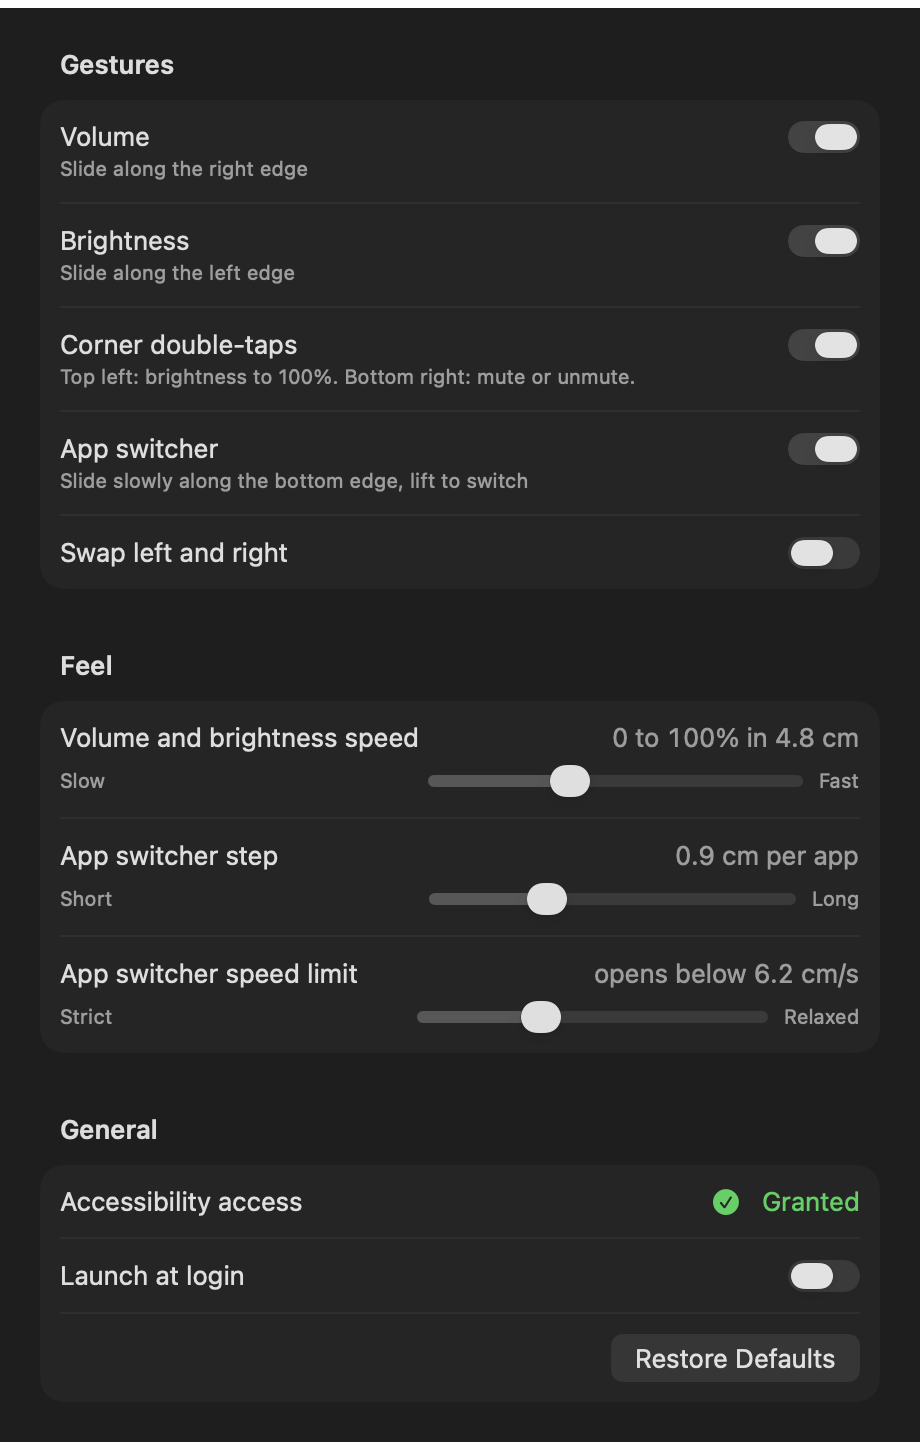
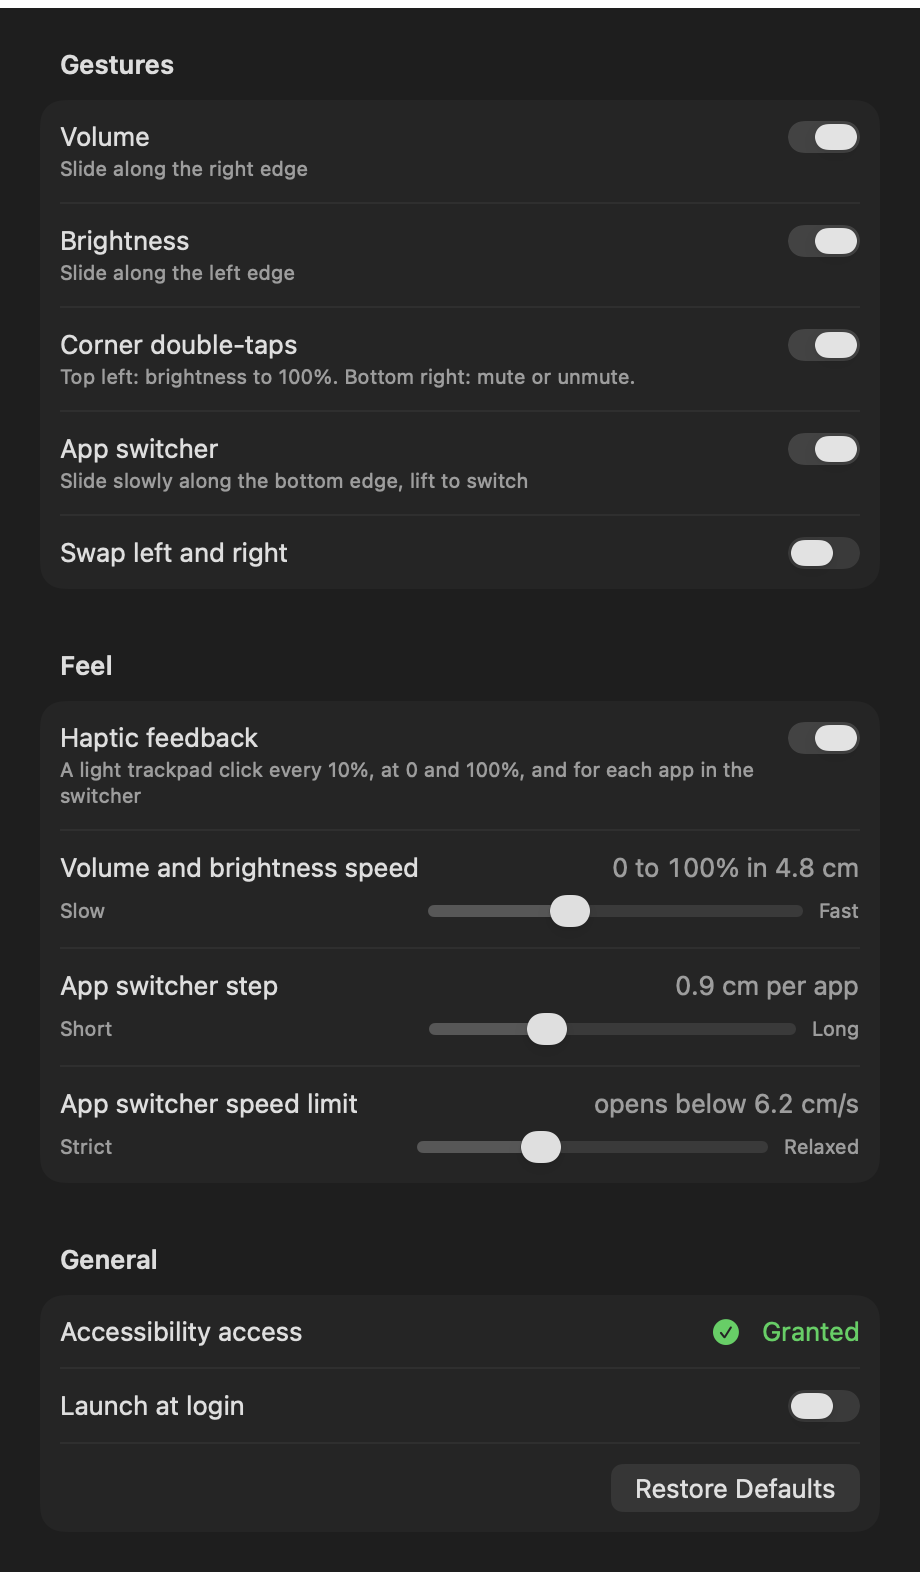
Add haptic clicks to sliders and the app switcher
- the trackpad clicks every 10% of volume or brightness, a firmer click at 0 and 100%
- one click when the app switcher opens and for each app it moves through
- Haptic feedback toggle in Settings, on by default
- the click rule lives in NordvaMacEdgeCore with tests; version 0.5.0

diff --git a/Sources/NordvaMacEdge/LevelController.swift b/Sources/NordvaMacEdge/LevelController.swift
@@ -11,6 +11,7 @@ final class LevelController {
     private let brightness = BrightnessControl()
     private let hud: HUD
     private let settings: Settings
+    private let haptics: Haptics
 
     private var sensitivity: Float = 1.6
     private var kind = LevelKind.volume
@@ -22,9 +23,10 @@ final class LevelController {
     private var pending: [LevelKind: Float] = [:]
     private var draining = false
 
-    init(hud: HUD, settings: Settings) {
+    init(hud: HUD, settings: Settings, haptics: Haptics) {
         self.hud = hud
         self.settings = settings
+        self.haptics = haptics
     }
 
     func handle(_ event: GestureEvent) {
@@ -41,6 +43,9 @@ final class LevelController {
             guard let current = level else { return }
             let next = min(1, max(0, current + Float(delta) * sensitivity))
             level = next
+            if let click = haptic(from: Double(current), to: Double(next)) {
+                haptics.play(click)
+            }
             if abs(next - lastSubmitted) >= minimumStep || ((next == 0 || next == 1) && next != lastSubmitted) {
                 submit(next, for: kind)
                 lastSubmitted = next

diff --git a/Tests/NordvaMacEdgeCoreTests/LevelHapticsTests.swift b/Tests/NordvaMacEdgeCoreTests/LevelHapticsTests.swift
@@ -1,0 +1,39 @@
+import Testing
+@testable import NordvaMacEdgeCore
+
+@Test func crossingADetentClicks() {
+    #expect(haptic(from: 0.55, to: 0.61) == .detent)
+    #expect(haptic(from: 0.61, to: 0.59) == .detent)
+}
+
+@Test func movingWithinADetentIsSilent() {
+    #expect(haptic(from: 0.61, to: 0.68) == nil)
+    #expect(haptic(from: 0.5, to: 0.5) == nil)
+}
+
+@Test func landingExactlyOnABoundaryClicks() {
+    #expect(haptic(from: 0.59, to: 0.6) == .detent)
+    #expect(haptic(from: 0.6, to: 0.61) == nil)
+}
+
+@Test func reachingTheEndsIsAStop() {
+    #expect(haptic(from: 0.97, to: 1) == .stop)
+    #expect(haptic(from: 0.03, to: 0) == .stop)
+}
+
+@Test func pushingPastTheEndStaysSilent() {
+    #expect(haptic(from: 1, to: 1) == nil)
+    #expect(haptic(from: 0, to: 0) == nil)
+}
+
+@Test func fullSlideGivesNineDetentsAndOneStop() {
+    var level = 0.0
+    var clicks: [Haptic] = []
+    while level < 1 {
+        let next = min(1, level + 0.013)
+        if let click = haptic(from: level, to: next) { clicks.append(click) }
+        level = next
+    }
+    #expect(clicks.filter { $0 == .detent }.count == 9)
+    #expect(clicks.last == .stop)
+}

diff --git a/Sources/NordvaMacEdge/AppSwitcher.swift b/Sources/NordvaMacEdge/AppSwitcher.swift
@@ -12,14 +12,16 @@ final class AppSwitcher {
     }
 
     private let settings: Settings
+    private let haptics: Haptics
     private let queue = DispatchQueue(label: "nordvamacedge.switcher")
     private let source = CGEventSource(stateID: .hidSystemState)
     private var step = 0.07
     private var travel = 0.0
     private var isOpen = false
 
-    init(settings: Settings) {
+    init(settings: Settings, haptics: Haptics) {
         self.settings = settings
+        self.haptics = haptics
     }
 
     func handle(_ event: GestureEvent) {
@@ -27,6 +29,7 @@ final class AppSwitcher {
         case .began:
             step = settings.switcherStep
             travel = 0
+            haptics.play(.detent)
             queue.async { [self] in open() }
         case let .moved(_, delta):
             travel += delta
@@ -40,6 +43,7 @@ final class AppSwitcher {
                 travel += step
             }
             if steps != 0 {
+                haptics.play(.detent)
                 queue.async { [self] in move(by: steps) }
             }
         case .ended:

diff --git a/Sources/NordvaMacEdge/Settings.swift b/Sources/NordvaMacEdge/Settings.swift
@@ -15,6 +15,7 @@ final class Settings: ObservableObject {
         static let sensitivity = "sensitivity"
         static let switcherStep = "switcherStep"
         static let switcherMaxSpeed = "switcherMaxSpeed"
+        static let haptics = "haptics"
     }
 
     static let sensitivityRange: ClosedRange<Double> = 0.8...3.0
@@ -31,6 +32,7 @@ final class Settings: ObservableObject {
         Key.sensitivity: 1.6,
         Key.switcherStep: 0.07,
         Key.switcherMaxSpeed: 0.5,
+        Key.haptics: true,
     ]
 
     private let store = UserDefaults.standard
@@ -84,6 +86,11 @@ final class Settings: ObservableObject {
     var switcherMaxSpeed: Double {
         get { store.double(forKey: Key.switcherMaxSpeed) }
         set { save(newValue, Key.switcherMaxSpeed) }
+    }
+
+    var haptics: Bool {
+        get { store.bool(forKey: Key.haptics) }
+        set { save(newValue, Key.haptics) }
     }
 
     var launchAtLogin: Bool {

diff --git a/Sources/NordvaMacEdge/Haptics.swift b/Sources/NordvaMacEdge/Haptics.swift
@@ -1,0 +1,22 @@
+import AppKit
+import NordvaMacEdgeCore
+
+/// Trackpad clicks through the public haptics API. They are only felt while a finger
+/// rests on the trackpad, which is always the case during a gesture.
+final class Haptics {
+    private let settings: Settings
+
+    init(settings: Settings) {
+        self.settings = settings
+    }
+
+    func play(_ haptic: Haptic) {
+        guard settings.haptics else { return }
+        DispatchQueue.main.async {
+            NSHapticFeedbackManager.defaultPerformer.perform(
+                haptic == .stop ? .generic : .levelChange,
+                performanceTime: .now
+            )
+        }
+    }
+}

diff --git a/Sources/NordvaMacEdgeCore/LevelHaptics.swift b/Sources/NordvaMacEdgeCore/LevelHaptics.swift
@@ -1,0 +1,15 @@
+public enum Haptic: Equatable, Sendable {
+    case detent
+    case stop
+}
+
+/// The trackpad click for a level moving from `old` to `new`: a stop when it reaches 0 or 100%,
+/// a detent each time it crosses a multiple of `step`.
+public func haptic(from old: Double, to new: Double, step: Double = 0.1) -> Haptic? {
+    guard new != old else { return nil }
+    if new <= 0 || new >= 1 { return .stop }
+    // The epsilon keeps 0.6 / 0.1 = 5.999… from landing in the wrong detent.
+    let before = Int((old / step + 1e-9).rounded(.down))
+    let after = Int((new / step + 1e-9).rounded(.down))
+    return before != after ? .detent : nil
+}

diff --git a/Sources/NordvaMacEdge/AppDelegate.swift b/Sources/NordvaMacEdge/AppDelegate.swift
@@ -43,8 +43,9 @@ final class AppDelegate: NSObject, NSApplicationDelegate, NSMenuDelegate {
 
         setUpMenu()
 
-        let levels = LevelController(hud: hud, settings: settings)
-        let switcher = AppSwitcher(settings: settings)
+        let haptics = Haptics(settings: settings)
+        let levels = LevelController(hud: hud, settings: settings, haptics: haptics)
+        let switcher = AppSwitcher(settings: settings, haptics: haptics)
         engine = GestureEngine { event in
             if event.edge == .bottom {
                 switcher.handle(event)

diff --git a/Sources/NordvaMacEdge/SettingsWindow.swift b/Sources/NordvaMacEdge/SettingsWindow.swift
@@ -69,6 +69,11 @@ private struct SettingsView: View {
             }
 
             Section("Feel") {
+                toggle(
+                    "Haptic feedback",
+                    detail: "A light trackpad click every 10%, at 0 and 100%, and for each app in the switcher",
+                    isOn: $settings.haptics
+                )
                 slider(
                     "Volume and brightness speed",
                     value: $settings.sensitivity,

diff --git a/README.md b/README.md
@@ -41,8 +41,9 @@ in the menu and switch it on again.
 ## Settings
 
 Click the slider icon in the menu bar → **Settings…** (or press ⌘, while the menu is open).
-Turn each gesture on or off, swap the sides, and tune how it feels: how far to slide for
-the full volume range, how far per app in the switcher and how slow the switcher slide must be.
+Turn each gesture on or off, swap the sides, switch the haptic clicks off, and tune how it
+feels: how far to slide for the full volume range, how far per app in the switcher and how
+slow the switcher slide must be.
 Distances are shown in centimeters of your own trackpad.
 
 <p align="center"><img src="docs/settings.png" width="460" alt="Settings window"></p>
@@ -52,6 +53,7 @@ Distances are shown in centimeters of your own trackpad.
 - **Smooth.** The level follows your finger without lag, and an indicator appears at the edge of the screen.
 - **Stays out of your way.** Normal pointing, two-finger scrolling, clicking and dragging near the edges work as before: a gesture starts only when the finger lands right at the edge and moves along it.
 - **The pointer stays put** while a gesture is in progress.
+- **You can feel it.** The trackpad clicks softly every 10%, a little firmer at 0 and 100%, and once for each app in the switcher, like a dial with notches.
 - **Lightweight.** No Dock icon, just a menu bar item and a settings window when you need it.
 - **Open source.** Plain Swift, no third-party dependencies, builds with one command.
 
@@ -121,6 +123,8 @@ The icon is drawn in code: `swift scripts/make-icon.swift` regenerates `Resource
 | `Sources/NordvaMacEdge/AppSwitcher.swift` | presses Command+Tab for the bottom edge |
 | `Sources/NordvaMacEdge/Controls.swift` | volume via CoreAudio, brightness via DisplayServices |
 | `Sources/NordvaMacEdge/HUD.swift` | the level indicator next to the screen edge |
+| `Sources/NordvaMacEdgeCore/LevelHaptics.swift` | decides when a level change should click |
+| `Sources/NordvaMacEdge/Haptics.swift` | plays the trackpad clicks |
 | `Sources/NordvaMacEdge/Settings.swift` | preferences, read by gesture code straight from UserDefaults |
 | `Sources/NordvaMacEdge/SettingsWindow.swift` | the SwiftUI settings window |
 
